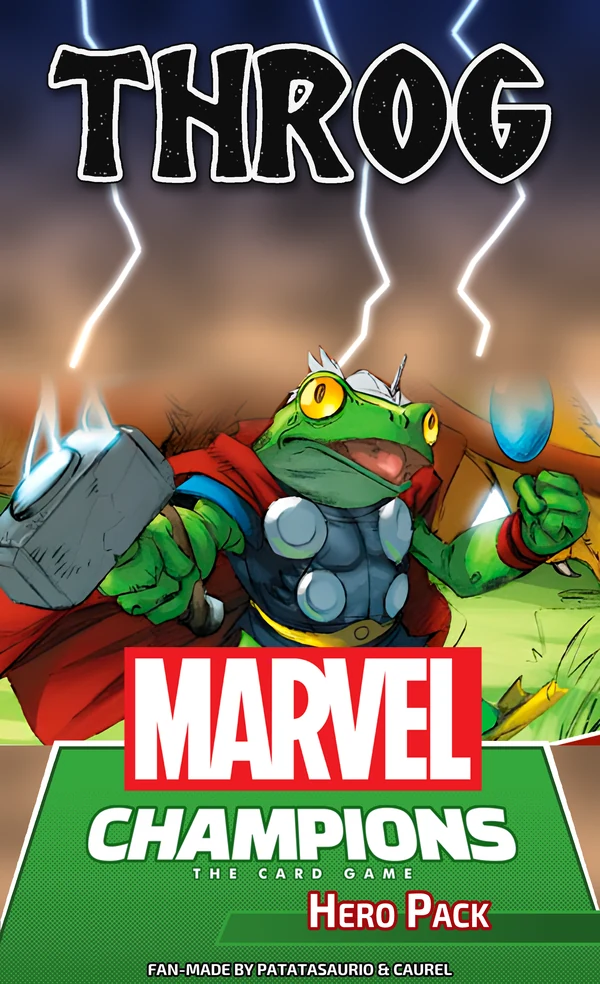
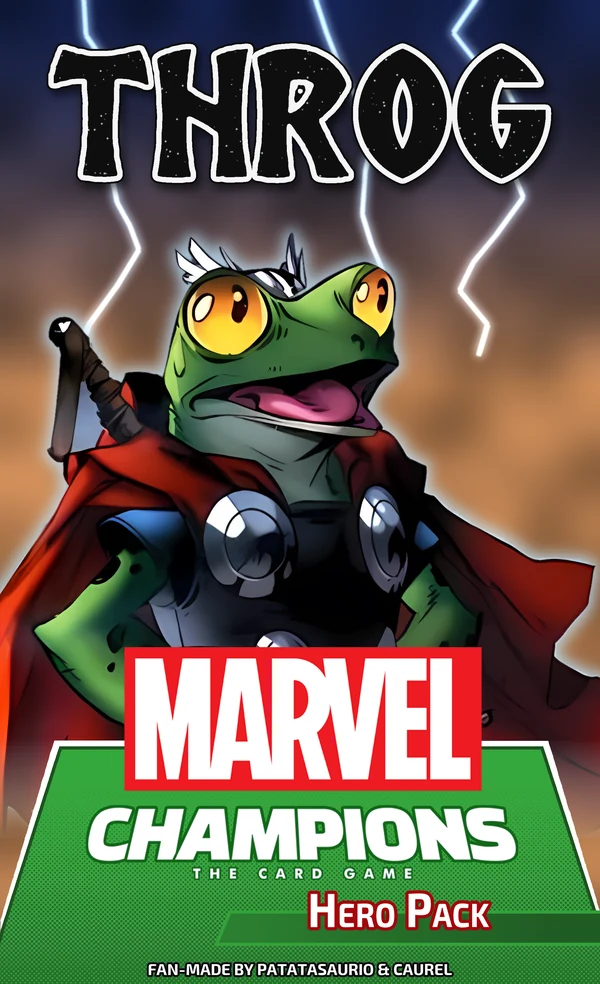
throg-ptt 0.2.0: ready (authors fine with the fixes), its entry, Mad Titan's Shadow shelf, new cover and store text

diff --git a/packs/throg-ptt/PERMISSION.md b/packs/throg-ptt/PERMISSION.md
@@ -8,9 +8,9 @@ Patatasaurio and Caurel, the authors of Throg, gave permission for this pack to 
   2026-11-13. That date is the owner's confirmation, not the date of the Discord message.
 - Via: BluefireF5ran's curated repository https://github.com/bluefireF5ran/mc-digital-custom-packs, at commit
   `a51e50da556ece0b0fe9a75848320416b8794cef` (folder `throg_ptt`, `mod.json`: `permission`).
-- Source status: `waiting_author`. The curators made rules fixes to the authors' cards (see the README) and sent them on
-  2026-10-30 and 2026-11-07; the authors have not answered yet. The pack follows the curators' version and is a draft
-  (the `DRAFT` file) until the owner decides otherwise.
+- Source status: `ready` (2026-11-19). The curators made rules fixes to the authors' cards (see the README) and sent
+  them on 2026-10-30 and 2026-11-07. Patatasaurio answered that he is fine with the curators' changes as long as the
+  credits stay (reported by BluefireF5ran, 2026-11-19); the credits are unchanged. The `DRAFT` file is removed.
 
 **Evidence:** PatataSaurio's reply on Discord, 2026-10-28: "Claro, por mi no tengo problema ¡también son mis favoritos!"
 The screenshot shows only the reply, so it does not name the pack it answers. Caurel, the co-author, is not in the

diff --git a/packs/throg-ptt/README.md b/packs/throg-ptt/README.md
@@ -8,10 +8,10 @@ nemesis set (Thanos, An Unexpected Guest, Power Stone, Inevitable Power x2). See
 `es`); the English text and pictures are Francisco Merchán's translation, and the card text in the data is English
 (`languages.text` is `en`, the importer's `textLanguage`).
 
-**This pack is a DRAFT** (the `DRAFT` file): the generic community-packs test and the publish workflow skip it until the
-file is removed. The curated source marks it `waiting_author`: the curators' rules fixes (below) were sent to the
-authors on 2026-10-30 and 2026-11-07 and are not confirmed. The owner decides when to remove the file. Its own tests are
-`packages/mod-sdk/src/throg-ptt.test.ts`.
+**Ready (0.2.0, 2026-11-20).** The `DRAFT` file is gone: Patatasaurio is fine with the curators' rules fixes (below)
+as long as the credits stay (2026-11-19). The store shelf is The Mad Titan's Shadow (`wave: cycle4`: a Guardian beside
+Nebula, Asgard beside Valkyrie, Thanos and the Power Stone in his nemesis set), and the cover is his full-figure hero art
+(curated source commit `c131319`). Its own tests are `packages/mod-sdk/src/throg-ptt.test.ts`.
 
 ## Source layout
 
